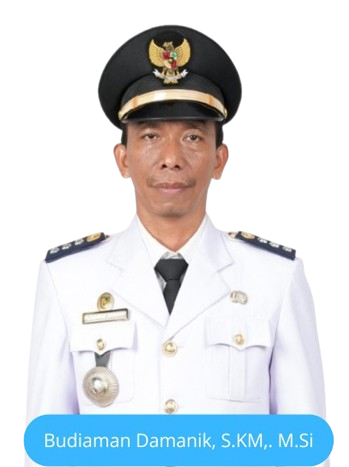
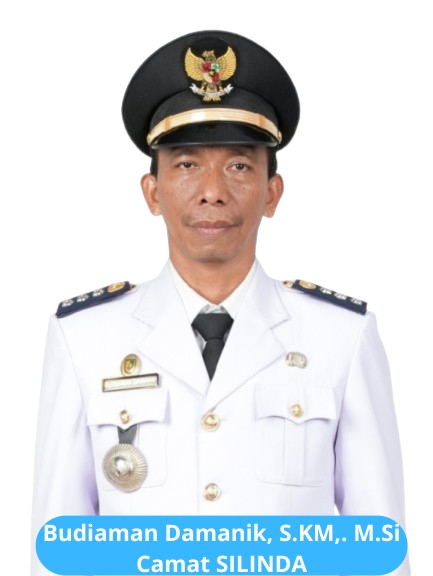
update foto dan layout

diff --git a/resources/views/layouts/app.blade.php b/resources/views/layouts/app.blade.php
@@ -10,26 +10,28 @@
         $slogans = Slogan::all();
     @endphp
 
-    <div class="bg-gradient-to-r from-green-100 via-yellow-50 to-green-100 shadow rounded-xl my-10 mx-4 px-6 py-8">
+    <div class="bg-gradient-to-r from-green-100 via-yellow-50 to-green-100  rounded-xl my-10 mx-4 px-6 py-8">
         <!-- Header Tengah -->
-        <div class="relative flex items-center justify-center mb-6">
-            <!-- Gambar Kiri -->
-            <div class="absolute left-0 flex items-center justify-center ml-4">
-                <img src="{{ asset('assets/img/bupati_dan_wakil.png') }}" alt="Bupati" width="200px">
-            </div>
+        <div class="silindak-header">
+            <div class="silindak-header-container">
+                <!-- Gambar Kiri -->
+                <div class="silindak-image-left">
+                    <img src="{{ asset('assets/img/bupati_dan_wakil.png') }}" alt="Bupati dan Wakil">
+                </div>
 
-            <!-- Teks Tengah -->
-            <div class="text-center px-4">
-                <h2 class="text-2xl sm:text-3xl font-bold text-white leading-snug">
-                    Selamat Datang Di Aplikasi<br>
-                    SILINDAK<br>
-                    <span class="text-yellow-600">(SISTEM APLIKASI PAJAK KECAMATAN SILINDA)</span>
-                </h2>
-            </div>
+                <!-- Teks Tengah -->
+                <div class="silindak-text-center">
+                    <h2>
+                        Selamat Datang Di Aplikasi<br>
+                        SILINDAK<br>
+                        <span class="silindak-text-yellow">(SISTEM INFORMASI lAYANAN PADjak)</span>
+                    </h2>
+                </div>
 
-            <!-- Gambar Kanan -->
-            <div class="absolute right-0 flex items-center justify-center mr-2">
-                <img src="{{ asset('assets/img/pak_camat.png') }}" alt="Camat" width="100px">
+                <!-- Gambar Kanan -->
+                <div class="silindak-image-right">
+                    <img src="{{ asset('assets/img/pak_camat.png') }}" alt="Pak Camat">
+                </div>
             </div>
         </div>
 
@@ -47,6 +49,210 @@
     </div>
 
     <style>
+        .silindak-header * {
+            margin: 0;
+            padding: 0;
+            box-sizing: border-box;
+        }
+
+        .silindak-header {
+            font-family: Arial, sans-serif;
+            padding: 20px;
+        }
+
+        .silindak-header-container {
+            position: relative;
+            display: flex;
+            align-items: center;
+            justify-content: center;
+            margin-bottom: 24px;
+            min-height: 120px;
+            max-width: 1200px;
+            margin: 0 auto;
+        }
+
+        .silindak-image-left {
+            position: absolute;
+            left: 0;
+            display: flex;
+            align-items: center;
+            justify-content: center;
+            z-index: 1;
+        }
+
+        .silindak-image-left img {
+            width: 100%;
+            max-width: 280px;
+            height: auto;
+            object-fit: contain;
+        }
+
+        .silindak-text-center {
+            text-align: center;
+            padding: 0 16px;
+            z-index: 2;
+            flex: 1;
+            max-width: 600px;
+        }
+
+        .silindak-text-center h2 {
+            font-size: 1.75rem;
+            font-weight: bold;
+            color: white;
+            line-height: 1.3;
+            margin-bottom: 8px;
+        }
+
+        .silindak-text-yellow {
+            color: #d97706;
+            display: block;
+            margin-top: 4px;
+        }
+
+        .silindak-image-right {
+            position: absolute;
+            right: 0;
+            display: flex;
+            align-items: center;
+            justify-content: center;
+            z-index: 1;
+        }
+
+        .silindak-image-right img {
+            width: 100%;
+            max-width: 160px;
+            height: auto;
+            object-fit: contain;
+        }
+
+        /* Responsive Design */
+        @media (max-width: 768px) {
+            .silindak-header-container {
+                flex-direction: column;
+                position: static;
+                min-height: auto;
+                gap: 20px;
+            }
+
+            .silindak-image-left,
+            .silindak-image-right {
+                position: static;
+                order: 2;
+            }
+
+            .silindak-text-center {
+                order: 1;
+                max-width: 100%;
+                padding: 0 20px;
+            }
+
+            .silindak-text-center h2 {
+                font-size: 1.25rem;
+            }
+
+            .silindak-image-left img {
+                max-width: 200px;
+            }
+
+            .silindak-image-right img {
+                max-width: 110px;
+            }
+
+            /* Layout mobile: gambar kiri - text - gambar kanan */
+            .silindak-header-container {
+                display: grid;
+                grid-template-columns: auto 1fr auto;
+                grid-template-areas: "left center right";
+                align-items: center;
+                gap: 10px;
+            }
+
+            .silindak-image-left {
+                grid-area: left;
+            }
+
+            .silindak-text-center {
+                grid-area: center;
+                order: unset;
+            }
+
+            .silindak-image-right {
+                grid-area: right;
+                order: unset;
+            }
+        }
+
+        @media (max-width: 640px) {
+            .silindak-text-center h2 {
+                font-size: 1.1rem;
+            }
+
+            .silindak-header-container {
+                gap: 8px;
+            }
+
+            .silindak-image-left img {
+                max-width: 130px;
+            }
+
+            .silindak-image-right img {
+                max-width: 70px;
+            }
+        }
+
+        @media (max-width: 480px) {
+            .silindak-text-center h2 {
+                font-size: 1rem;
+            }
+
+            .silindak-header-container {
+                gap: 6px;
+                padding: 0 10px;
+            }
+
+            .silindak-image-left img {
+                max-width: 110px;
+            }
+
+            .silindak-image-right img {
+                max-width: 60px;
+            }
+
+            .silindak-text-center {
+                padding: 0 8px;
+            }
+        }
+
+        /* Very small screens */
+        @media (max-width: 360px) {
+            .silindak-text-center h2 {
+                font-size: 0.95rem;
+            }
+
+            .silindak-image-left img {
+                max-width: 90px;
+            }
+
+            .silindak-image-right img {
+                max-width: 50px;
+            }
+        }
+
+        /* Very small screens */
+        @media (max-width: 360px) {
+            .silindak-text-center h2 {
+                font-size: 0.95rem;
+            }
+
+            .silindak-image-left img {
+                max-width: 90px;
+            }
+
+            .silindak-image-right img {
+                max-width: 50px;
+            }
+        }
+
         @keyframes marquee {
             0% {
                 transform: translateX(100%);
